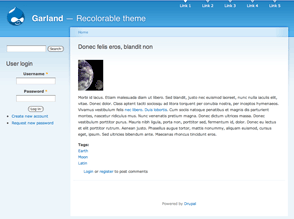
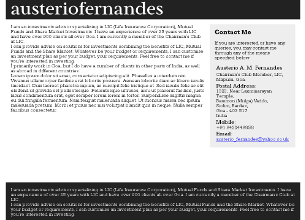
Added some styles to the theme austeriofernandes. In order to view these changes, you might need to create certain blocks and nodes. Or else everything will appear as a small box.

diff --git a/drupal-7.4/sites/default/themes/austeriofernandes/css/global.css b/drupal-7.4/sites/default/themes/austeriofernandes/css/global.css
@@ -14,6 +14,26 @@ body {
 	margin: 0 auto;
 }
 
+#copyright {
+	text-align: center;
+	padding: 1em 0;
+}
+
+#header, #content-area, #footer {
+	padding: 0 1em;
+}
+
+#content-area {
+	min-height: 500px;
+	background-color: #fff;
+	color: #000;
+	padding: 1em;
+}
+
+#footer {
+	padding-top: 1em;
+}
+
 .logo {
 	font-family: 'Radley', serif;
 	font-size: 4em;
@@ -24,4 +44,55 @@ body {
 .logo a:hover {
 	color: #fff;
 	text-decoration: none;
+}
+
+.column {
+	float: left;
+}
+
+#main-content {
+	width: 70%;
+}
+
+.region-content {
+	padding-right: 1em;
+}
+
+#sidebar {
+	width: 30%;
+	background-color: #eee;
+}
+
+.region-sidebar {
+	padding: 1em;
+}
+
+#sidebar .block h2 {
+	font-size: 1.3em;
+	font-weight: bold;
+}
+
+#sidebar .block .content {
+	padding-top: 1em;
+}
+
+#sidebar .block .content p {
+	padding-bottom: 1em;
+}
+
+#sidebar .block .content ul.contact-details {
+	padding: 0 0.3em;
+}
+
+#sidebar .block .content ul.contact-details li {
+	padding-bottom: 0.2em;
+}
+
+#sidebar .block .content ul.contact-details li.address p {
+	padding: 0;
+}
+
+#sidebar .block .content ul.contact-details li.name,
+#sidebar .block .content ul.contact-details li .title {
+	font-size: 1.2em;
 }

diff --git a/drupal-7.4/sites/default/themes/austeriofernandes/page.tpl.php b/drupal-7.4/sites/default/themes/austeriofernandes/page.tpl.php
@@ -1,17 +1,20 @@
 <div id="container">
-	<div class="header">
+	<div id="header">
 		<div class="logo">
 			<a href="/">austeriofernandes</a>
 		</div>
 		<?php print render($page['header']);?>
 	</div>
-	<div class="column content">
-		<?php print render($page['content']);?>
-	</div>
-	<div class="column sidebar">
-		<?php print render($page['sidebar']); ?>
+	<div id="content-area">
+		<div id="main-content" class="column">
+			<?php print render($page['content']);?>
+		</div>
+		<div id="sidebar" class="column">
+			<?php print render($page['sidebar']); ?>
+		</div>
 	</div>
 	<div id="footer">
 		<?php print render($page['footer']); ?>
+		<div id="copyright"> © 2011 Austerio Fernandes</div>
 	</div>
 </div>
